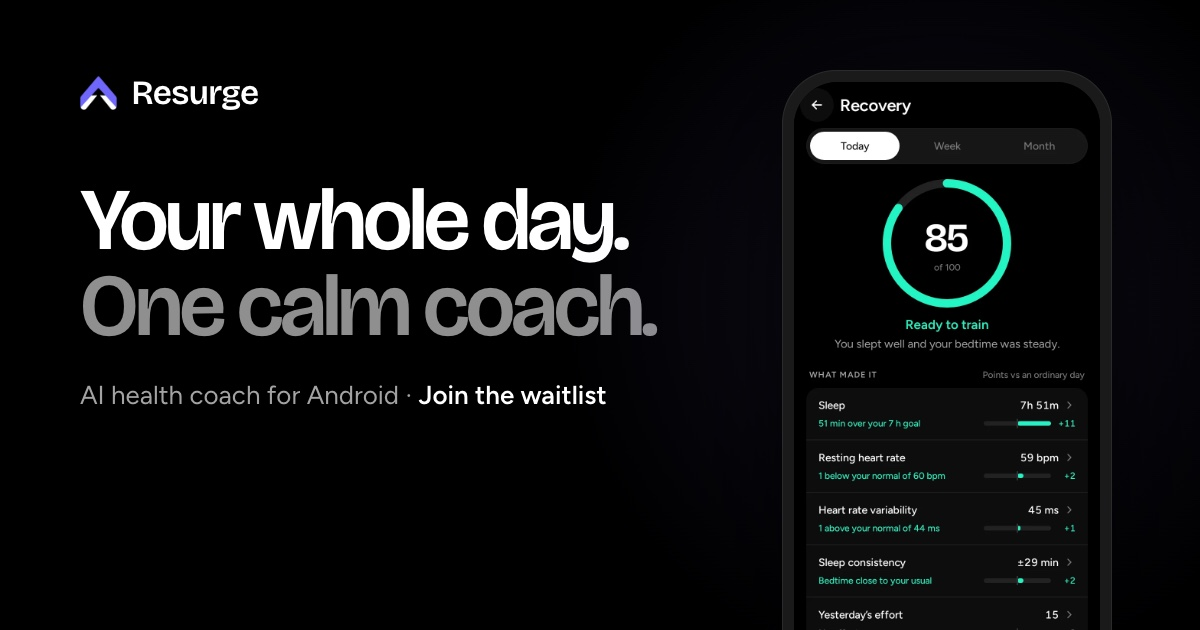
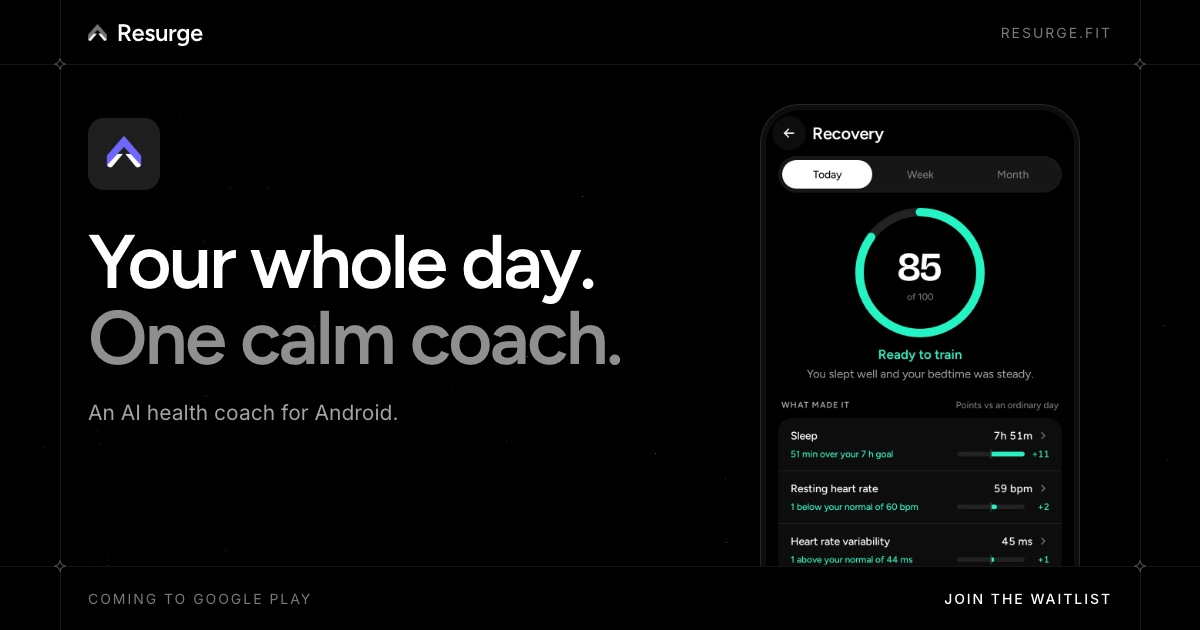
Website: the share image in the new design
Black with chalk dust, the rails and hairlines meeting at the coach's star,
the grey nav mark, Figtree and Inter, and a slim phone slipping behind the
bottom bar like the hero's.

diff --git a/website/og/og.html b/website/og/og.html
@@ -1,33 +1,72 @@
 <!doctype html>
-<!-- The share image (1200×630). `npm run og` renders it to public/og.jpg. -->
+<!--
+  The share image (1200×630). `npm run og` renders it to public/og.jpg. It follows the site: pitch
+  black with chalk dust, rails and hairlines meeting at the coach's star, and the phone slipping
+  behind the bottom bar like the hero's does behind the next section.
+-->
 <html lang="en">
 <head>
 <meta charset="utf-8">
 <style>
-  
   @font-face { font-family: "Figtree"; src: url("../public/fonts/figtree.ttf"); font-weight: 300 900; }
+  @font-face { font-family: "Inter"; src: url("../public/fonts/inter.woff2"); font-weight: 100 900; }
   * { box-sizing: border-box; margin: 0; }
-  html, body { width: 1200px; height: 630px; overflow: hidden; background: #000; color: #fff; font-family: Figtree, sans-serif; -webkit-font-smoothing: antialiased; }
-  .page { position: relative; width: 1200px; height: 630px; padding: 72px 80px; }
-  .glow { position: absolute; right: -120px; top: -80px; width: 760px; height: 760px; background: radial-gradient(closest-side, rgba(139,124,255,0.12), transparent); }
-  .brand { display: flex; align-items: center; gap: 14px; font-family: "Figtree"; font-weight: 600; font-size: 34px; letter-spacing: -0.02em; }
-  .brand img { height: 34px; }
-  h1 { margin-top: 64px; font-family: "Figtree"; font-weight: 600; font-size: 88px; line-height: 0.98; letter-spacing: -0.035em; }
+  html, body { width: 1200px; height: 630px; overflow: hidden; background: #000 url("../public/dust.webp") 0 0 / 1600px; color: #fff; font-family: Figtree, sans-serif; -webkit-font-smoothing: antialiased; }
+  .page { position: relative; width: 1200px; height: 630px; }
+
+  /* Rails at the column's edges, and the hairlines across. */
+  .rail { position: absolute; top: 0; bottom: 0; width: 1px; background: rgba(255,255,255,0.08); z-index: 3; }
+  .line { position: absolute; left: 0; right: 0; height: 1px; background: rgba(255,255,255,0.08); z-index: 4; }
+  .star { position: absolute; width: 14px; height: 14px; transform: translate(-50%, -50%); z-index: 5; }
+
+  .bar { position: absolute; left: 60px; right: 60px; display: flex; align-items: center; justify-content: space-between; padding: 0 28px; background: #000; z-index: 2; }
+  .top { top: 0; height: 64px; }
+  .bottom { bottom: 0; height: 64px; }
+  .brand { display: flex; align-items: baseline; gap: 10px; font-weight: 600; font-size: 24px; letter-spacing: -0.02em; }
+  .brand img { height: 17px; filter: grayscale(1); }
+  .label { font-family: Inter, sans-serif; font-size: 14px; letter-spacing: 0.14em; text-transform: uppercase; color: #7a7a7a; }
+  .label b { color: #fff; font-weight: 500; }
+
+  .copy { position: absolute; left: 88px; top: 118px; }
+  .icon { width: 72px; height: 72px; border-radius: 22%; }
+  h1 { margin-top: 30px; font-weight: 600; font-size: 76px; line-height: 1; letter-spacing: -0.035em; }
   h1 span { color: #8f8f8f; }
-  .sub { margin-top: 30px; font-size: 26px; color: #a3a3a3; }
-  .sub b { color: #fff; font-weight: 600; }
-  .phone { position: absolute; right: 88px; top: 70px; width: 330px; height: 680px; padding: 11px; border-radius: 54px; background: #1a1a1a; border: 1px solid #2a2a2a; box-shadow: 0 30px 120px rgba(0,0,0,0.8); }
-  .screen { width: 100%; height: 100%; border-radius: 44px; overflow: hidden; background: #000; }
+  .sub { margin-top: 24px; font-family: Inter, sans-serif; font-size: 21px; color: #a3a3a3; }
+
+  /* A slim phone, cut off by the bottom bar. */
+  .phone { position: absolute; right: 120px; top: 104px; width: 320px; height: 660px; padding: 5px; border-radius: 40px; background: #0d0d0d; border: 1px solid rgba(255,255,255,0.1); z-index: 1; }
+  .screen { width: 100%; height: 100%; border-radius: 35px; overflow: hidden; background: #000; }
   .screen img { width: 100%; display: block; }
 </style>
 </head>
 <body>
   <div class="page">
-    <div class="glow"></div>
-    <div class="brand"><img src="../public/mark.png" alt="">Resurge</div>
-    <h1>Your whole day.<br><span>One calm coach.</span></h1>
-    <p class="sub">AI health coach for Android · <b>Join the waitlist</b></p>
+    <div class="bar top">
+      <div class="brand"><img src="../public/mark.png" alt="">Resurge</div>
+      <span class="label">resurge.fit</span>
+    </div>
+
+    <div class="copy">
+      <img class="icon" src="../public/icon.png" alt="">
+      <h1>Your whole day.<br><span>One calm coach.</span></h1>
+      <p class="sub">An AI health coach for Android.</p>
+    </div>
+
     <div class="phone"><div class="screen"><img src="../public/ui/screen-scores.webp" alt=""></div></div>
+
+    <div class="bar bottom">
+      <span class="label">Coming to Google Play</span>
+      <span class="label"><b>Join the waitlist</b></span>
+    </div>
+
+    <div class="rail" style="left:60px"></div>
+    <div class="rail" style="left:1140px"></div>
+    <div class="line" style="top:64px"></div>
+    <div class="line" style="top:566px"></div>
+    <svg class="star" style="left:60px;top:64px" viewBox="0 0 24 24"><path d="M12,2.8 C13.1,8.2 15.8,10.9 21.2,12 C15.8,13.1 13.1,15.8 12,21.2 C10.9,15.8 8.2,13.1 2.8,12 C8.2,10.9 10.9,8.2 12,2.8 Z" fill="#000" stroke="rgba(255,255,255,0.35)" stroke-width="1.6" stroke-linejoin="round"/></svg>
+    <svg class="star" style="left:1140px;top:64px" viewBox="0 0 24 24"><path d="M12,2.8 C13.1,8.2 15.8,10.9 21.2,12 C15.8,13.1 13.1,15.8 12,21.2 C10.9,15.8 8.2,13.1 2.8,12 C8.2,10.9 10.9,8.2 12,2.8 Z" fill="#000" stroke="rgba(255,255,255,0.35)" stroke-width="1.6" stroke-linejoin="round"/></svg>
+    <svg class="star" style="left:60px;top:566px" viewBox="0 0 24 24"><path d="M12,2.8 C13.1,8.2 15.8,10.9 21.2,12 C15.8,13.1 13.1,15.8 12,21.2 C10.9,15.8 8.2,13.1 2.8,12 C8.2,10.9 10.9,8.2 12,2.8 Z" fill="#000" stroke="rgba(255,255,255,0.35)" stroke-width="1.6" stroke-linejoin="round"/></svg>
+    <svg class="star" style="left:1140px;top:566px" viewBox="0 0 24 24"><path d="M12,2.8 C13.1,8.2 15.8,10.9 21.2,12 C15.8,13.1 13.1,15.8 12,21.2 C10.9,15.8 8.2,13.1 2.8,12 C8.2,10.9 10.9,8.2 12,2.8 Z" fill="#000" stroke="rgba(255,255,255,0.35)" stroke-width="1.6" stroke-linejoin="round"/></svg>
   </div>
 </body>
 </html>
